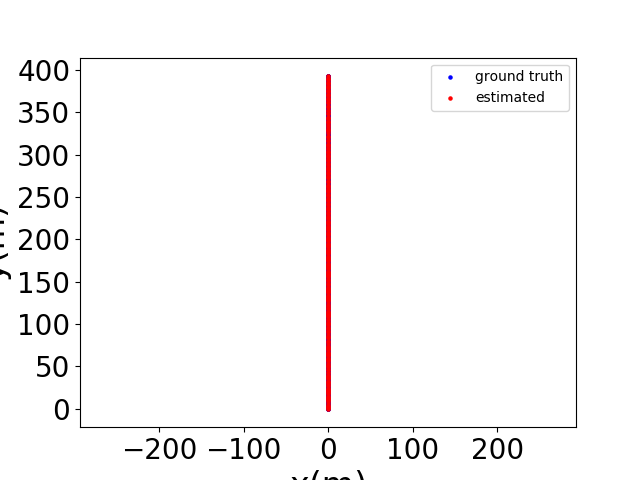
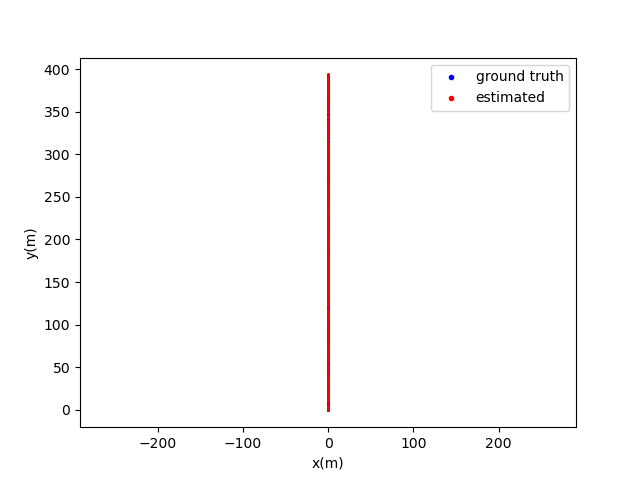
all sequqnce 4 trajectories have been generated, on to testing TartanAir formatting, running, and evaluation

diff --git a/evaluate_multiple_sequences.py b/evaluate_multiple_sequences.py
@@ -123,13 +123,15 @@ if __name__ == '__main__':
 		# save plot of ground truth and estimated trajectories
 		name = path.split(".")[0]
 		plt.axis('equal')
-		ground_truth = plt.scatter(ground_points[0], ground_points[2], s=5, c='blue')
-		estimated = plt.scatter(list(re_fpoints[0]), list(re_fpoints[2]), s=5, c='red')
-		plt.legend([ground_truth,estimated],["ground truth","estimated"])
-		plt.xlabel('x(m)', fontsize=24)
-		plt.ylabel('y(m)', fontsize=24) 
-		plt.xticks(fontsize=20)
-		plt.yticks(fontsize=20)
+		ground_truth = plt.scatter(ground_points[0], ground_points[2], s=0.5, c='blue')
+		estimated = plt.scatter(list(re_fpoints[0]), list(re_fpoints[2]), s=0.5, c='red')
+		plt.legend([ground_truth,estimated],["ground truth","estimated"], markerscale=3, fontsize=10)
+		plt.xlabel('x(m)')
+		plt.ylabel('y(m)')
+		#plt.xlabel('x(m)', fontsize=24)
+		#plt.ylabel('y(m)', fontsize=24) 
+		#plt.xticks(fontsize=20)
+		#plt.yticks(fontsize=20)
 		plt.savefig(os.getcwd() + '/evaluations/plots/'+name+'.png')
 		
 		# save metrics txt file

diff --git a/run_multiple_sequences.py b/run_multiple_sequences.py
@@ -35,8 +35,7 @@ sequences_P001 = ["abandonedfactory_sample_P001/P001"]
 kitti_sequences = []
 tartan_sequences = []
 
-kitti_sequences = ["04_zero"]
-
+tartan_sequences = sequences_P001
 
 # set directory to Twighlight-SLAM
 try:
@@ -73,9 +72,10 @@ for sequence in tqdm(tartan_sequences):
     
     # set directory to SuperPoint-SLAM
     os.chdir(os.path.join(os.getcwd(),'thirdparty/SuperPoint_SLAM'))
-    sequence_path = "Formatted_TartanAir/" + sequence
+    sequence_path = "../../datasets/Formatted_TartanAir/" + sequence
 
     # execute sequence
+    print(f"{mono_tartan_path} {vocabuylary_path} {tartan_yaml_path} {sequence_path}")
     os.system(f"{mono_tartan_path} {vocabuylary_path} {tartan_yaml_path} {sequence_path}")
 
     # reutrn to Twilight-SLAM directory and save trajectory

diff --git a/format_TartanAir.py b/format_TartanAir.py
@@ -48,7 +48,6 @@ for file_name in tqdm(os.listdir(source_folder)):
 #rgb_file = open(formatted_main_path + "/"+ sequence_name + "/rgb.txt","w+")
 times_file = open(formatted_main_path + "/"+ sequence_name + "/times.txt","w+")
 
-
 print("\nCreating rgb.txt and times.txt...")
 for idx,img_path in tqdm(enumerate(img_paths)):
 

diff --git a/README.md b/README.md
@@ -6,16 +6,18 @@ Secondary Objectve: To provide tools for streamlining evaluation of multiple dat
 Experiment Overview: We initially test against against the KITTI benchmark to confirm pipeline success. Then, we test against ETH3D and Tartan Air benchmark data sequences which were qualitatively found to have more underexposed images on average or in general througout the entire sequence. Twilight dataset sequences that were too underexposed to initiate SuperPoint-SLAM wihout image enhancment modules were not considered.
 
 # 1. OS and Hardware Prerequisites
-We tested this project in *Ubuntu 18.04*. Additionally, the original repository reports testing for *Ubuntu 12.04*, *14.04*, and *16.04*. Using a HP-360x-Spectre with 4 cores, Intel Core i7, and no GPU. Thus we  we achieved SuperPoint-SLAM at 5 seconds per frame.
+We tested this project in **Ubuntu 18.04**. Additionally, the original repository reports testing for **Ubuntu 12.04**, **14.04**, and **16.04**. Using a HP-360x-Spectre with 4 cores, Intel Core i7, and no GPU. Thus we  we achieved SuperPoint-SLAM at 5 seconds per frame.
+
 
 # 2. Intial Steps
-`
-cd ~/your_preferred_code_direcotry
+```bash
+cd # to your preferred directory
 git clone https://github.com/TwilightSLAM/Twilight_SuperPoint_SLAM.git
 cd Twilight_SuperPoint_SLAM
-`
+```
 
-# 3. 3rd Party Installations
+
+# 3. Third Party Installations
 To streamline the installation process, we provide the library versions that we used, links to the official respositories, and recommended installation steps/guides based on what worked for us.
 
 ## Pangolin v0.6
@@ -40,7 +42,7 @@ make install
 cd ../..
 ```
 
-## OpenCV 3.2
+## OpenCV 3.2.0
 ### Official Repository: https://github.com/opencv/opencv.git
 ### Recommended Guide: https://gist.github.com/syneart/3e6bb68de8b6390d2eb18bff67767dcb
 
@@ -50,29 +52,54 @@ cd ../..
 You should have already installed libeigen via the recommended instruction for building OpenCV. If not, try installing with
 ```bash
 sudo apt-get install libeigen3-dev
-
-```
-
-## SuperPoint-SLAM
-
-### Recommended Steps:
-```bash
-
 ```
 
 ## Libtorch
-### Version Used:
-### Recommended Steps:
+### Official Repository:
+### Recommended Steps (per SuperPoint_SLAM repo):
 ```bash
-
+git clone --recursive -b v1.0.1 https://github.com/pytorch/pytorch
+cd pytorch && mkdir build && cd build
+python ../tools/build_libtorch.py
 ```
-### Original Repository:
 
-4. Install SLAM Datasets and Enhance Images
+## SuperPoint-SLAM
+### Official Repository: https://github.com/KinglittleQ/SuperPoint_SLAM.git
+### Recommended Steps: 
+```bash
+git clone https://github.com/KinglittleQ/SuperPoint_SLAM.git
+cd SuperPoint_SLAM
+
+# edit CMakeLists.txt, changing set(Torch_DIR "/home/deng/SP_SLAM/Thirdparty/libtorch/share/cmake/Torch") to the directory containing the libtorch torch config cmake file, e.g. set(Torch_DIR "/home/billymazotti/Documents/Twilight_SuperPoint_SLAM/thirdparty/pytorch/torch/lib/tmp_install/share/cmake/Torch")
+gedit CMakeLists.txt
+
+# build SuperPoint_SLAM and it's thirdparty modules (DBoW3 and g2o)
+chmod +x build.sh
+./build.sh
+```
+
+
+# 4. Install KITTI, TartanAir, and ETH3D SLAM Datasets
+
+
+# 5. Prepare and format TartanAir and ETH3D SLAM Datasets
+
+
+# 6. Enhance Images
 Follow steps in [INSERT REPO HERE] to download visual slam datasets (KITTI, Tartan Air, ETH3D and TUM) and generate new images using low light image enhancement modules (Bread, Dual, EnlightenGAN and ZeroDCE).
 
 Once images are downloaded, use the recommended direcotry formatting to store you images in order to use `run_multiple_sequences.py` and `evaluate_multiple_sequences.py`.
 
-5. Run SuperPoint-SLAM
 
-6. Evaluate 
+# 7. Run SuperPoint-SLAM
+The dataset sequences chosen for this study take 20 minutes to 3 hours to run each, therefore we edit and run the following python file to run SuperPoint-SLAM on and thereby generate estimated trajectories for multiple dataset sequences overnight.
+```bash
+python3 run_multiple_sequences.py
+```
+
+
+# 8. Evaluate 
+To speed up the evaluation process, use the following python script ti generate SLAM trajectory metrics and plots for for each estimated trajecotry.
+```bash
+python3 evaluate_multiple_sequences.py
+```
